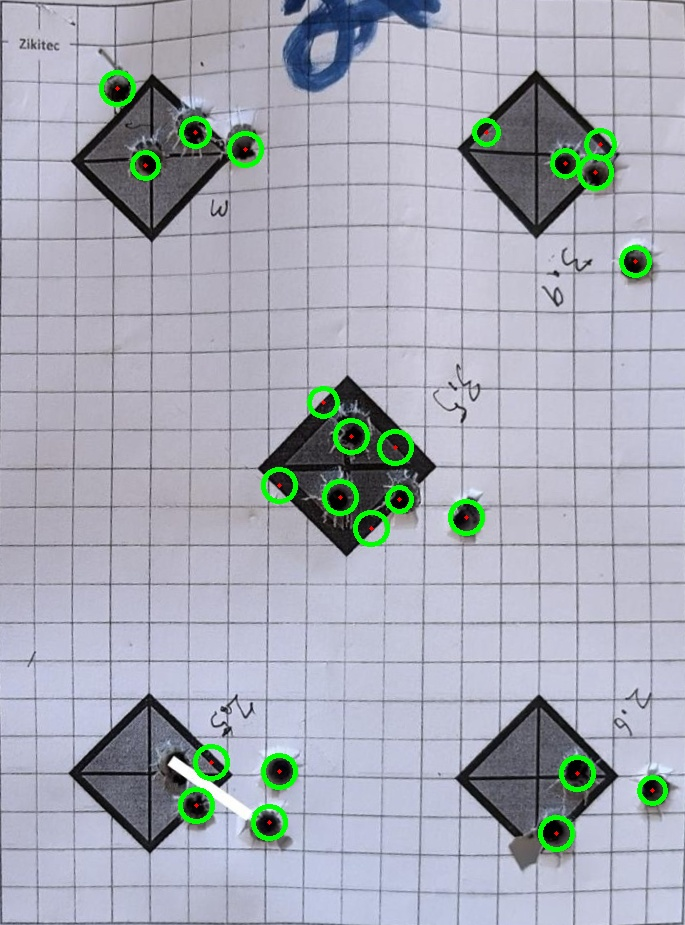
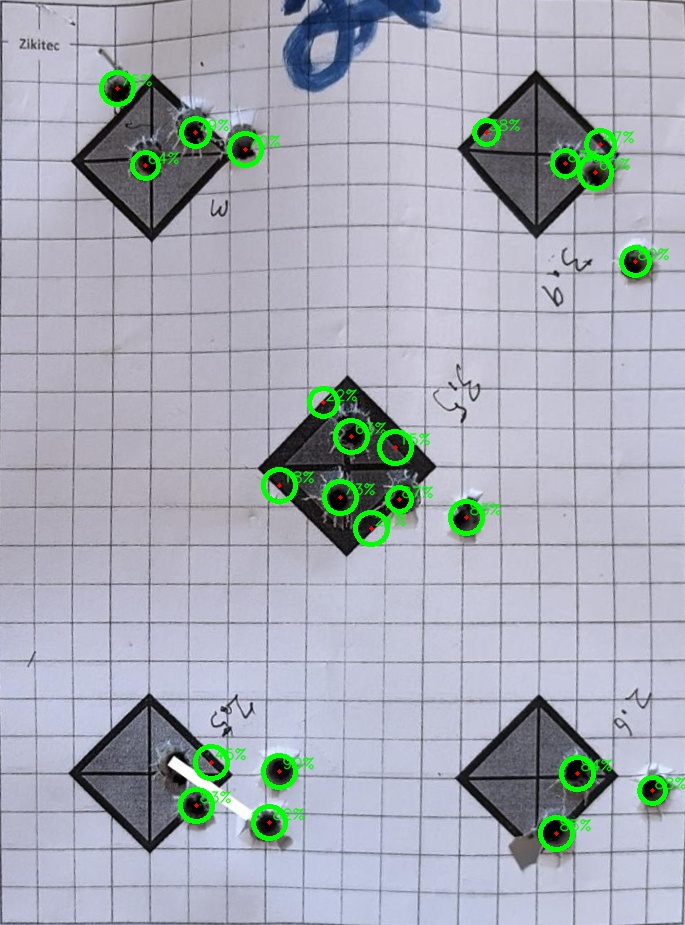
Update annotated output image to reflect recent changes in image processing algorithms.

diff --git a/main.py b/main.py
@@ -9,6 +9,14 @@ import json
 
 app = FastAPI()
 
+def contrast_pct(center_val: float, ring_val: float) -> float:
+    """
+    Percentage darkness drop from ring to centre, 0‑100.
+    Higher == darker hole relative to background.
+    """
+    return max(0.0, min(100.0, (ring_val - center_val) / ring_val * 100.0))
+
+
 def find_grid_lines(gray_img: np.ndarray) -> np.ndarray:
     """Return x‑positions of the vertical grid lines (one per square)."""
     sobelx = cv2.Sobel(gray_img, cv2.CV_16S, 1, 0, ksize=3)
@@ -148,6 +156,7 @@ def process_image(image_bytes, bullet_type: str = "7.62mm", contrast_factor: flo
     validated_circles = []
     if circles is not None:
         for (x_c, y_c, r) in circles[0]:
+            
             x_c, y_c, r = int(x_c), int(y_c), int(r)
             # Create a mask for the circle area
             mask = np.zeros(enhanced.shape, dtype=np.uint8)
@@ -156,6 +165,7 @@ def process_image(image_bytes, bullet_type: str = "7.62mm", contrast_factor: flo
             # Check if the center is darker than the surroundings
             mean_center = cv2.mean(enhanced, mask=mask)[0]
             
+            
             # Create ring mask for outer area
             ring_mask = np.zeros(enhanced.shape, dtype=np.uint8)
             cv2.circle(ring_mask, (x_c, y_c), int(r * 1.5), 255, -1)
@@ -163,24 +173,32 @@ def process_image(image_bytes, bullet_type: str = "7.62mm", contrast_factor: flo
             mean_ring = cv2.mean(enhanced, mask=ring_mask)[0]
             
             # Bullet holes should have darker centers
-            if mean_center < mean_ring * 0.85:  # Center is at least 15% darker
-                validated_circles.append([x_c, y_c, r])
+            if mean_center < mean_ring * 0.85:      # <-- keep your test
+                pct = contrast_pct(mean_center, mean_ring)
+                validated_circles.append([x_c, y_c, r, pct])
     
     print(f'Total circles detected: {len(circles[0]) if circles is not None else 0}')
     print(f'Validated circles: {len(validated_circles)}')
     
     results = []
     if validated_circles:
-        for (x_c, y_c, r) in validated_circles:
-            results.append((int(x_c), int(y_c)))
-            # Draw validated hits with thicker circles
+        for (x_c, y_c, r, pct) in validated_circles:
+            results.append((int(x_c), int(y_c), round(pct, 1)))
             cv2.circle(warped, (x_c, y_c), int(r), (0, 255, 0), 3)
-            # Add center dot
             cv2.circle(warped, (x_c, y_c), 2, (0, 0, 255), -1)
+            # draw percentage label
+            cv2.putText(
+                warped,
+                f"{pct:.0f}%",                # e.g. “32%”
+                (x_c + int(r*0.2), y_c - int(r*0.2)),
+                cv2.FONT_HERSHEY_SIMPLEX,
+                0.5,                          # font scale
+                (0, 255, 0), 1, cv2.LINE_AA
+            )
 
     # 5. Distance in cm
     if len(results) >= 1:
-        dists = pdist(np.array(results))
+        dists = pdist(np.array([pt[:2] for pt in results]))   # use x,y only
         max_px = max(dists)
     else:
         max_px = 0
